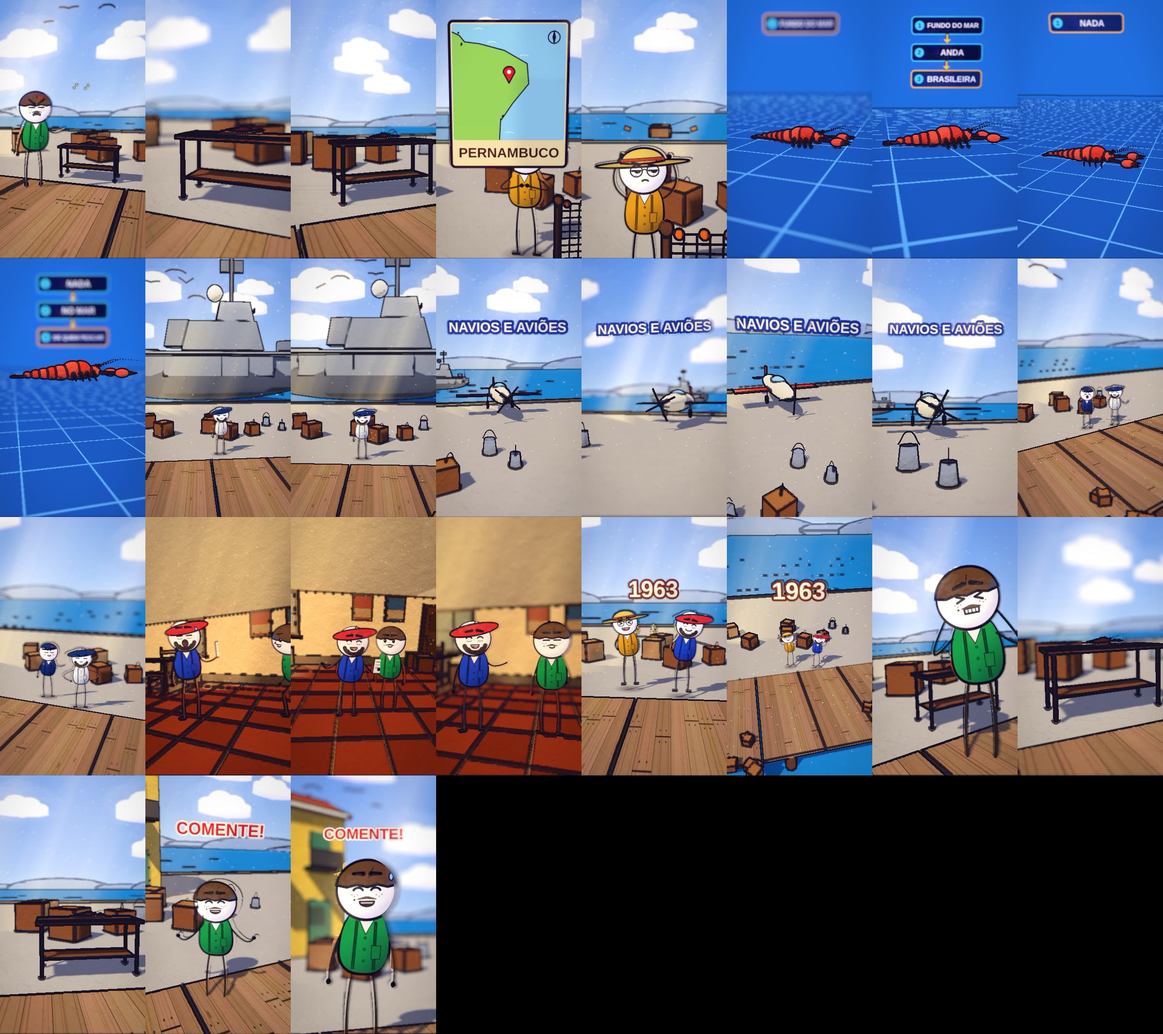
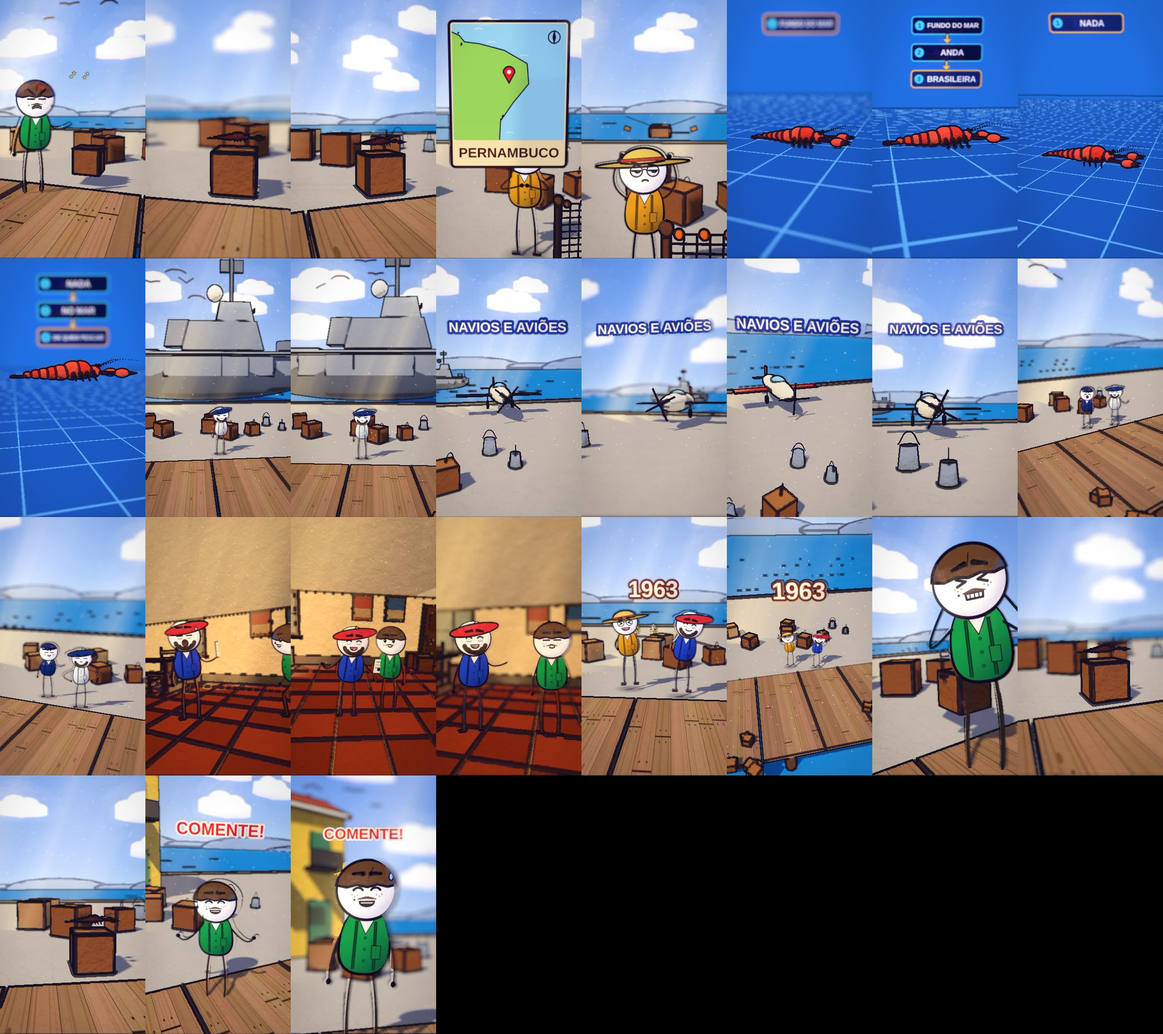
Lagosta: lagosta de desenho em tamanho legivel (limite 1.4 m, metade do pescador)
Claude-Session: https://claude.ai/code/session_01HE8Dy3UcXXZZMLa7uzjNJD

diff --git a/ferramenta-shorts/stories/lagosta1961/spec.js b/ferramenta-shorts/stories/lagosta1961/spec.js
@@ -15,7 +15,7 @@ const SPEC = {
   assets: ["boat", "buildings/shop", "crate", "kit/fishing_net", "kit/lobster", "kit/navio_destroier", "kit/room_colonial_stone", "mk/Bookcase_2", "mk/Chair_1", "mk/Chest_Wood", "mk/Table_Large", "ship", "vehicles/airplane"],
   kicks: [], flashes: [],
   shots: [
-    S('b0', A[0], Math.round(A[0] + (A[1] - 1 + 1 - (A[0])) * 0.36) - 1, X, "day", { h: 1.6, d0: 6.5, d1: 5.5, az0: -6, az1: 8, cx: 0.5, cz: -0.3, hero: { hero: 'any', frame: 'medium', minH: 0.07, main: 1 }, actors: [pp(X, "BRA", 0, 0.0, 1.3, "angry", { pose: 'argue' })], props: [{ asset: "crate", at: [X + 1.0, -0.4], s: 1.0, fixo: true }, { asset: "kit/lobster", at: [X + 1.0, -0.4], s: 0.37, fixo: true, y: DK + 0.95, drop: false }], fx: [{ k: 'stars', a: A[0] + 6, b: A[0] + 40, at: [X + 1.0, DK + 1.6, 0.1], s: 0.8 }, { k: 'birds', a: A[0], b: A[1] - 1, at: [X, DK + 4.5, -30], n: 4, dir: 1, off: 8 }] }), { ...S('b0_d', Math.round(A[0] + (A[1] - 1 + 1 - (A[0])) * 0.36), Math.round(A[0] + (A[1] - 1 + 1 - (A[0])) * 0.6) - 1, X, "day", { h: 1.6, d0: 6.5, d1: 5.5, az0: -6, az1: 8, cx: 0.5, cz: -0.3, hero: { hero: 'none', detalhe: true }, actors: [pp(X, "BRA", 0, 0.0, 1.3, "angry", { pose: 'stand' })], props: [{ asset: "crate", at: [X + 1.0, -0.4], s: 1.0, drop: false, fixo: true }, { asset: "kit/lobster", at: [X + 1.0, -0.4], s: 0.37, drop: false, fixo: true, y: DK + 0.95, drop: false }], fx: [{ k: 'stars', a: A[0] + 6, b: A[0] + 40, at: [X + 1.0, DK + 1.6, 0.1], s: 0.8 }, { k: 'birds', a: A[0], b: A[1] - 1, at: [X, DK + 4.5, -30], n: 4, dir: 1, off: 8 }] }), cam: [{ f: Math.round(A[0] + (A[1] - 1 + 1 - (A[0])) * 0.36), at: [X + 1.0, DK + 0.282, -0.4], d: 9.01, az: -14, el: 7, fov: 44 }, { f: Math.round(A[0] + (A[1] - 1 + 1 - (A[0])) * 0.6) - 1, at: [X + 1.0, DK + 0.282, -0.4], d: 8.0, az: -8, el: 6, fov: 44 }], nocut: true, vary: false, glide: true, glideN: 34 }, { ...S('b0_v', Math.round(A[0] + (A[1] - 1 + 1 - (A[0])) * 0.6), A[1] - 1, X, "day", { h: 1.6, d0: 6.5, d1: 5.5, az0: -6, az1: 8, cx: 0.5, cz: -0.3, hero: { hero: 'any', frame: 'medium', minH: 0.07, main: 1 }, actors: [pp(X, "BRA", 0, 0.0, 1.3, "angry", { pose: 'argue' })], props: [{ asset: "crate", at: [X + 1.0, -0.4], s: 1.0, drop: false, fixo: true }, { asset: "kit/lobster", at: [X + 1.0, -0.4], s: 0.37, drop: false, fixo: true, y: DK + 0.95, drop: false }], fx: [{ k: 'stars', a: A[0] + 6, b: A[0] + 40, at: [X + 1.0, DK + 1.6, 0.1], s: 0.8 }, { k: 'birds', a: A[0], b: A[1] - 1, at: [X, DK + 4.5, -30], n: 4, dir: 1, off: 8 }] }), glide: true, glideN: 34 },
+    S('b0', A[0], Math.round(A[0] + (A[1] - 1 + 1 - (A[0])) * 0.36) - 1, X, "day", { h: 1.6, d0: 6.5, d1: 5.5, az0: -6, az1: 8, cx: 0.5, cz: -0.3, hero: { hero: 'any', frame: 'medium', minH: 0.07, main: 1 }, actors: [pp(X, "BRA", 0, 0.0, 1.3, "angry", { pose: 'argue' })], props: [{ asset: "crate", at: [X + 1.0, -0.4], s: 1.0, fixo: true }, { asset: "kit/lobster", at: [X + 1.0, -0.4], s: 0.58, fixo: true, y: DK + 0.95, drop: false }], fx: [{ k: 'stars', a: A[0] + 6, b: A[0] + 40, at: [X + 1.0, DK + 1.6, 0.1], s: 0.8 }, { k: 'birds', a: A[0], b: A[1] - 1, at: [X, DK + 4.5, -30], n: 4, dir: 1, off: 8 }] }), { ...S('b0_d', Math.round(A[0] + (A[1] - 1 + 1 - (A[0])) * 0.36), Math.round(A[0] + (A[1] - 1 + 1 - (A[0])) * 0.6) - 1, X, "day", { h: 1.6, d0: 6.5, d1: 5.5, az0: -6, az1: 8, cx: 0.5, cz: -0.3, hero: { hero: 'none', detalhe: true }, actors: [pp(X, "BRA", 0, 0.0, 1.3, "angry", { pose: 'stand' })], props: [{ asset: "crate", at: [X + 1.0, -0.4], s: 1.0, drop: false, fixo: true }, { asset: "kit/lobster", at: [X + 1.0, -0.4], s: 0.58, drop: false, fixo: true, y: DK + 0.95, drop: false }], fx: [{ k: 'stars', a: A[0] + 6, b: A[0] + 40, at: [X + 1.0, DK + 1.6, 0.1], s: 0.8 }, { k: 'birds', a: A[0], b: A[1] - 1, at: [X, DK + 4.5, -30], n: 4, dir: 1, off: 8 }] }), cam: [{ f: Math.round(A[0] + (A[1] - 1 + 1 - (A[0])) * 0.36), at: [X + 1.0, DK + 0.282, -0.4], d: 9.01, az: -14, el: 7, fov: 44 }, { f: Math.round(A[0] + (A[1] - 1 + 1 - (A[0])) * 0.6) - 1, at: [X + 1.0, DK + 0.282, -0.4], d: 8.0, az: -8, el: 6, fov: 44 }], nocut: true, vary: false, glide: true, glideN: 34 }, { ...S('b0_v', Math.round(A[0] + (A[1] - 1 + 1 - (A[0])) * 0.6), A[1] - 1, X, "day", { h: 1.6, d0: 6.5, d1: 5.5, az0: -6, az1: 8, cx: 0.5, cz: -0.3, hero: { hero: 'any', frame: 'medium', minH: 0.07, main: 1 }, actors: [pp(X, "BRA", 0, 0.0, 1.3, "angry", { pose: 'argue' })], props: [{ asset: "crate", at: [X + 1.0, -0.4], s: 1.0, drop: false, fixo: true }, { asset: "kit/lobster", at: [X + 1.0, -0.4], s: 0.58, drop: false, fixo: true, y: DK + 0.95, drop: false }], fx: [{ k: 'stars', a: A[0] + 6, b: A[0] + 40, at: [X + 1.0, DK + 1.6, 0.1], s: 0.8 }, { k: 'birds', a: A[0], b: A[1] - 1, at: [X, DK + 4.5, -30], n: 4, dir: 1, off: 8 }] }), glide: true, glideN: 34 },
     { ...S('b1', A[1], A[2] - 1, X, "day", { h: 2.8, d0: 15.0, d1: 13.0, el: 5, fov: 46, cx: 0.0, cz: -5.6, hero: { hero: 'none', wide: true }, vary: false, nocut: true, trans: 'dissolve', actors: [_MA(pp(X, "PES", 0, 0.0, -0.4, "stern"), { gests: [[WS(24) - 8, WS(24) + 46, 'lift']] })], props: [{ asset: "boat", at: [X + 0.0, -27.0], s: 2.4, fixo: true }, { asset: "kit/fishing_net", at: [X + 1.8, 0.8], s: 1.2, drop: false }], fx: [{ k: 'map', a: WS(17, -2), b: Math.min(A[2] - 1, WS(17, -2) + 54), text: "PERNAMBUCO", geo: {"polys": [[7097, 522, 7096, 522, 7096, 521, -4214, 520, -4212, 518, -4210, 518, -4211, 520, -4211, 520, -4214, 522, 7097, 522], [-659, -42, -613, -29, -570, -64, -570, -85, -586, -135, -533, -118, -476, -147, -454, -169, -441, -146, -439, -117, -433, -62, -400, -44, -380, -54, -348, -64, -320, -75, -290, -84, -264, -72, -233, -76, -203, -100, -178, -140, -144, -62, -160, -8, -202, 46, -151, 49, -117, 79, -79, 35, -50, 20, -14, 29, 33, 50, 45, 65, 56, 78, 122, 86, 233, 115, 335, 173, 343, 263, 273, 348, 232, 408, 216, 430, 209, 546, 172, 650, 122, 722, 79, 727, 40, 737, -64, 790, -82, 807, -85, 856, -149, 978, -169, 996, -159, 961, -176, 980, -216, 1053, -235, 1031, -287, 990, -316, 983, -368, 955, -318, 902, -294, 882, -263, 866, -249, 821, -269, 794, -289, 758, -306, 728, -329, 701, -369, 699, -378, 677, -381, 648, -377, 607, -375, 552, -411, 514, -458, 447, -509, 417, -555, 395, -602, 372, -611, 342, -630, 307, -700, 339, -760, 345, -776, 299, -826, 311, -861, 271, -874, 245, -875, 229, -858, 188, -819, 141, -765, 133, -739, 36, -745, 14, -747, -25, -732, -26, -753, -37, -701, -60, -674, -70], [44, 90, 40, 93, 41, 89, 41, 87, 41, 85, 43, 83, 44, 83, 44, 85, 44, 86, 44, 90], [224, 412, 223, 413, 223, 411, 226, 408, 227, 405, 228, 407, 229, 408, 229, 409, 224, 412], [219, 424, 218, 426, 217, 426, 216, 425, 216, 423, 216, 422, 217, 422, 219, 422, 219, 424], [31, 38, 29, 40, 29, 41, 27, 40, 27, 39, 28, 39, 29, 37, 31, 37, 31, 38]], "hl": [1, 2, 3, 4, 5], "pin": [254.0, 260.0]} }, { k: "puff", a: A[1] + 70, b: A[1] + 96, at: [X + 0.9, DK + 0.12, 1.0], s: 0.75 }, { k: "splash", a: WS(24) + 3, b: WS(24) + 30, at: [X + 0.6, DK + 1.6, 1.7], s: 0.6 }] }), nocut: true },
     { ...S('b2', A[2], Math.round(A[2] + (A[3] - 1 + 1 - (A[2])) * 0.5) - 1, X_loc_estudio, "explica", { actors: [], props: [{ asset: "kit/lobster", at: [X_loc_estudio, -2.0], s: 1.47, y: (f) => DK, ry: 0.0, drop: false }], fx: [{ k: 'passos', a: (A[2]) + 8, b: A[3] - 1, itens: ["FUNDO DO MAR", "ANDA", "BRASILEIRA"], up: 0.58 }], hero: { hero: 'none', explica: true }, trans: 'dissolve' }), cam: [{ f: A[2], at: [X_loc_estudio + 0.0, DK + 0.615, -2.0], d: 14.2, az: 26, el: 10, fov: 44 }, { f: Math.round(A[2] + (A[3] - 1 + 1 - (A[2])) * 0.5) - 1, at: [X_loc_estudio + 0.0, DK + 0.615, -2.0], d: 12.78, az: 12, el: 8, fov: 44 }], nocut: true, vary: false, creep: 0 }, { ...S('b2_x', Math.round(A[2] + (A[3] - 1 + 1 - (A[2])) * 0.5), A[3] - 1, X_loc_estudio, "explica", { actors: [], props: [{ asset: "kit/lobster", at: [X_loc_estudio, -2.0], s: 1.47, y: (f) => DK, ry: 0.0, drop: false }], fx: [{ k: 'passos', a: (A[2]) + 8, b: A[3] - 1, itens: ["FUNDO DO MAR", "ANDA", "BRASILEIRA"], up: 0.58 }], hero: { hero: 'none', explica: true }, trans: 'cut' }), cam: [{ f: Math.round(A[2] + (A[3] - 1 + 1 - (A[2])) * 0.5), at: [X_loc_estudio + 0.0, DK + 0.615, -2.0], d: 12.5, az: -20, el: 6, fov: 44 }, { f: A[3] - 1, at: [X_loc_estudio + 0.0, DK + 0.615, -2.0], d: 11.36, az: -6, el: 5, fov: 44 }], nocut: true, vary: false, glide: true, glideN: 22, creep: 0 },
     { ...S('b3', A[3], Math.round(A[3] + (A[4] - 1 + 1 - (A[3])) * 0.5) - 1, X_loc_estudio, "explica", { actors: [], props: [{ asset: "kit/lobster", at: [X_loc_estudio, -2.0], s: 1.47, y: (f) => DK + 2.4 * Math.pow(Math.min(1, Math.max(0, (f - ((A[3]) + 14)) / 40)), 1.5) + (f > ((A[3]) + 14) + 40 ? 0.1 * Math.sin((f - ((A[3]) + 14)) / 9) : 0), ry: 0.0, drop: false }], fx: [{ k: 'passos', a: (A[3]) + 8, b: A[4] - 1, itens: ["NADA", "NO MAR", "DE QUEM PESCAR"], up: 0.58 }], hero: { hero: 'none', explica: true }, trans: 'dissolve' }), cam: [{ f: A[3], at: [X_loc_estudio + 0.0, DK + 2.115, -2.0], d: 14.2, az: 26, el: 10, fov: 44 }, { f: Math.round(A[3] + (A[4] - 1 + 1 - (A[3])) * 0.5) - 1, at: [X_loc_estudio + 0.0, DK + 2.115, -2.0], d: 12.78, az: 12, el: 8, fov: 44 }], nocut: true, vary: false, creep: 0 }, { ...S('b3_x', Math.round(A[3] + (A[4] - 1 + 1 - (A[3])) * 0.5), A[4] - 1, X_loc_estudio, "explica", { actors: [], props: [{ asset: "kit/lobster", at: [X_loc_estudio, -2.0], s: 1.47, y: (f) => DK + 2.4 * Math.pow(Math.min(1, Math.max(0, (f - ((A[3]) + 14)) / 40)), 1.5) + (f > ((A[3]) + 14) + 40 ? 0.1 * Math.sin((f - ((A[3]) + 14)) / 9) : 0), ry: 0.0, drop: false }], fx: [{ k: 'passos', a: (A[3]) + 8, b: A[4] - 1, itens: ["NADA", "NO MAR", "DE QUEM PESCAR"], up: 0.58 }], hero: { hero: 'none', explica: true }, trans: 'cut' }), cam: [{ f: Math.round(A[3] + (A[4] - 1 + 1 - (A[3])) * 0.5), at: [X_loc_estudio + 0.0, DK + 2.115, -2.0], d: 12.5, az: -20, el: 6, fov: 44 }, { f: A[4] - 1, at: [X_loc_estudio + 0.0, DK + 2.115, -2.0], d: 11.36, az: -6, el: 5, fov: 44 }], nocut: true, vary: false, glide: true, glideN: 22, creep: 0 },
@@ -24,8 +24,8 @@ const SPEC = {
     { ...S('b6', A[6], A[7] - 1, X, "day", { h: 2.6, d0: 25.0, d1: 19.0, el: 11, fov: 46, az0: -38, az1: 32, cx: 0.0, cz: -1.5, hero: { hero: 'none', wide: true }, vary: false, nocut: true, trans: 'dissolve', actors: [_MA(pp(X, "MAR", 0, -1.0, -0.4, "angry", { pose: 'argue' }), { gests: [[WS(94) - 8, WS(94) + 46, 'point']] }), pp(X, "MFR", 0, 1.0, 0.2, "stern", { pose: 'argue' })], fx: [{ k: 'birds', a: A[6], b: A[7] - 1, at: [X, DK + 4.5, -30], n: 4, dir: -1, off: 8 }, { k: "puff", a: A[6] + 40, b: A[6] + 66, at: [X + 0.9, DK + 0.12, 1.0], s: 0.75 }] }), nocut: true },
     S('b7', A[7], A[8] - 1, X_hall, "study", { h: 2.3, d0: 7.3, d1: 6.86, fov: 57.0, az0: 10, az1: 4, vary: false, hero: { hero: 'any', frame: 'medium', minH: 0.07, main: 2 }, trans: 'dissolve', actors: [_MA(pp(X_hall, "FRA", 0, -1.0, 1.3, "relief", { over: { hold: "paper" }, pose: 'talk', inter: { k: 'step', a: Math.round(A[7] + (A[8] - 1 - (A[7])) * 0.12), b: Math.round(A[7] + (A[8] - 1 - (A[7])) * 0.82), dir: 1, n: 2, ph: 0 } }), { gests: [[WS(123) - 8, WS(123) + 46, 'point']] }), { outfit: "BRA", v: 0, at: [X_hall + 3.4, -0.6], move: [[X_hall + 1.0, 1.0], A[7], Math.round(A[7] + Math.min(48, (A[8] - 1 - (A[7])) * 0.3)), 'lin'], arrive: true, walk: "stroll", look: -0.4, expr: "smile" }], props: [{ asset: "kit/room_colonial_stone", at: [X_hall, 0], s: 1, drop: false }, { asset: "mk/Bookcase_2", at: [X_hall + 7.4, -3.4], s: 2.4, drop: false }, { asset: "mk/Table_Large", at: [X_hall + -6.6, -1.6], s: 2.2, drop: false }, { asset: "mk/Chair_1", at: [X_hall + -4.4, -1.2], s: 2.2, drop: false }, { asset: "mk/Chest_Wood", at: [X_hall + 6.9, 0.6], s: 2.2, drop: false }] }),
     { ...{ ...S('b8', A[8], A[9] - 1, X, "day", { h: 2.4, d0: 11.0, d1: 27.0, el: 10, fov: 46, cx: 0.0, cz: -1.5, hero: { hero: 'none', wide: true }, vary: false, nocut: true, trans: 'dissolve', actors: [_MA(_MA(pp(X, "PES", 0, -1.0, -0.4, "laugh", { pose: 'cheer' }), { gests: [[WS(132) - 8, WS(132) + 46, 'point']] }), { gests: [[WS(132) - 6, WS(137) - 6, 'reach']] }), _MA(pp(X, "FRA", 0, 1.0, 0.2, "relief", { pose: 'cheer' }), { gests: [[WS(132) - 6, WS(137) - 6, 'reach']] })], props: [{ asset: "kit/navio_destroier", at: [X + -42, -34], s: 8.27, drop: false }, { asset: "boat", at: [X + 30, -22], s: 1.0 }], fx: [{ k: 'birds', a: A[8], b: A[9] - 1, at: [X, DK + 7.5, -30], n: 6, dir: 1, off: 8 }, txt(X, WS(128, -2), A[9] - 1, "1963", '#fff6e0', '#7a3a1c', 4.6, { s: 1.5, up: 0.42 }), { k: "stars", a: A[8] + 20, b: A[8] + 46, at: [X, DK + 0.5, 1.2], s: 1.1 }, { k: "stars", a: WS(132) + 3, b: WS(132) + 30, at: [X + -1.0, DK + 2.6, 1.7], s: 0.6 }, { k: 'stars', a: WS(132) + 6, b: WS(132) + 40, at: [X, DK + 2.0, 1.6], s: 0.9 }] }), nocut: true }, cam: [{ f: A[8], at: [X + 0.0, DK + 2.0, 0.5], d: 9, az: 10, el: 5, fov: 46 }, { f: A[9] - 1, at: [X + 0.0, DK + 1.0, -2.0], d: 30, az: -14, el: 30, fov: 48 }], nocut: true },
-    S('b9', A[9], Math.round(A[9] + (A[10] - 1 + 1 - (A[9])) * 0.36) - 1, X, "day", { h: 1.6, d0: 6.5, d1: 5.5, az0: -32, az1: -18, cx: 0.5, cz: -0.3, hero: { hero: 'any', frame: 'medium', minH: 0.07, main: 1 }, trans: 'dissolve', actors: [pp(X, "BRA", 0, 0.0, 1.3, "nervous", { pose: 'react' })], props: [{ asset: "crate", at: [X + 1.0, -0.4], s: 1.0, fixo: true }, { asset: "kit/lobster", at: [X + 1.0, -0.4], s: 0.37, fixo: true, y: DK + 0.95, drop: false }], fx: [{ k: 'stars', a: A[9] + 6, b: A[9] + 40, at: [X + 1.0, DK + 1.6, 0.1], s: 0.8 }] }), { ...S('b9_d', Math.round(A[9] + (A[10] - 1 + 1 - (A[9])) * 0.36), Math.round(A[9] + (A[10] - 1 + 1 - (A[9])) * 0.6) - 1, X, "day", { h: 1.6, d0: 6.5, d1: 5.5, az0: -32, az1: -18, cx: 0.5, cz: -0.3, hero: { hero: 'none', detalhe: true }, trans: 'cut', actors: [pp(X, "BRA", 0, 0.0, 1.3, "nervous", { pose: 'react' })], props: [{ asset: "crate", at: [X + 1.0, -0.4], s: 1.0, drop: false, fixo: true }, { asset: "kit/lobster", at: [X + 1.0, -0.4], s: 0.37, drop: false, fixo: true, y: DK + 0.95, drop: false }], fx: [{ k: 'stars', a: A[9] + 6, b: A[9] + 40, at: [X + 1.0, DK + 1.6, 0.1], s: 0.8 }] }), cam: [{ f: Math.round(A[9] + (A[10] - 1 + 1 - (A[9])) * 0.36), at: [X + 1.0, DK + 0.282, -0.4], d: 9.01, az: -14, el: 7, fov: 44 }, { f: Math.round(A[9] + (A[10] - 1 + 1 - (A[9])) * 0.6) - 1, at: [X + 1.0, DK + 0.282, -0.4], d: 8.0, az: -8, el: 6, fov: 44 }], nocut: true, vary: false, glide: true, glideN: 34 }, { ...S('b9_v', Math.round(A[9] + (A[10] - 1 + 1 - (A[9])) * 0.6), A[10] - 1, X, "day", { h: 1.6, d0: 6.5, d1: 5.5, az0: -32, az1: -18, cx: 0.5, cz: -0.3, hero: { hero: 'any', frame: 'medium', minH: 0.07, main: 1 }, trans: 'cut', actors: [pp(X, "BRA", 0, 0.0, 1.3, "nervous", { pose: 'react' })], props: [{ asset: "crate", at: [X + 1.0, -0.4], s: 1.0, drop: false, fixo: true }, { asset: "kit/lobster", at: [X + 1.0, -0.4], s: 0.37, drop: false, fixo: true, y: DK + 0.95, drop: false }], fx: [{ k: 'stars', a: A[9] + 6, b: A[9] + 40, at: [X + 1.0, DK + 1.6, 0.1], s: 0.8 }] }), glide: true, glideN: 34 },
-    S('b10', A[10], A[11] - 1, X, "day", { h: 2.4, d0: 6.4, d1: 5.6, az0: -6, az1: 8, hero: { hero: 'any', frame: 'medium', minH: 0.07, main: 1 }, trans: 'dissolve', actors: [pp(X, "BRA", 0, 0.0, 1.3, "grin", { pose: 'talk' })], props: [{ asset: "buildings/shop", at: [X + -4.8, -11.0], s: 1.05, ry: 0.35, drop: false }, { asset: "kit/lobster", at: [X + 0.0, -11.0], s: 0.37, drop: false }], fx: [{ k: 'stars', a: A[10] + 6, b: A[10] + 40, at: [X + 0.0, DK + 1.6, -10.5], s: 0.8 }, { k: 'birds', a: A[10], b: A[11] - 1, at: [X, DK + 6.0, -30], n: 5, dir: -1, off: 8 }, txt(X, WS(153, -2), A[11] - 1, "COMENTE!", '#d8282f', '#fff6e0', 4.6, { s: 1.5, up: 0.55 })] })
+    S('b9', A[9], Math.round(A[9] + (A[10] - 1 + 1 - (A[9])) * 0.36) - 1, X, "day", { h: 1.6, d0: 6.5, d1: 5.5, az0: -32, az1: -18, cx: 0.5, cz: -0.3, hero: { hero: 'any', frame: 'medium', minH: 0.07, main: 1 }, trans: 'dissolve', actors: [pp(X, "BRA", 0, 0.0, 1.3, "nervous", { pose: 'react' })], props: [{ asset: "crate", at: [X + 1.0, -0.4], s: 1.0, fixo: true }, { asset: "kit/lobster", at: [X + 1.0, -0.4], s: 0.58, fixo: true, y: DK + 0.95, drop: false }], fx: [{ k: 'stars', a: A[9] + 6, b: A[9] + 40, at: [X + 1.0, DK + 1.6, 0.1], s: 0.8 }] }), { ...S('b9_d', Math.round(A[9] + (A[10] - 1 + 1 - (A[9])) * 0.36), Math.round(A[9] + (A[10] - 1 + 1 - (A[9])) * 0.6) - 1, X, "day", { h: 1.6, d0: 6.5, d1: 5.5, az0: -32, az1: -18, cx: 0.5, cz: -0.3, hero: { hero: 'none', detalhe: true }, trans: 'cut', actors: [pp(X, "BRA", 0, 0.0, 1.3, "nervous", { pose: 'react' })], props: [{ asset: "crate", at: [X + 1.0, -0.4], s: 1.0, drop: false, fixo: true }, { asset: "kit/lobster", at: [X + 1.0, -0.4], s: 0.58, drop: false, fixo: true, y: DK + 0.95, drop: false }], fx: [{ k: 'stars', a: A[9] + 6, b: A[9] + 40, at: [X + 1.0, DK + 1.6, 0.1], s: 0.8 }] }), cam: [{ f: Math.round(A[9] + (A[10] - 1 + 1 - (A[9])) * 0.36), at: [X + 1.0, DK + 0.282, -0.4], d: 9.01, az: -14, el: 7, fov: 44 }, { f: Math.round(A[9] + (A[10] - 1 + 1 - (A[9])) * 0.6) - 1, at: [X + 1.0, DK + 0.282, -0.4], d: 8.0, az: -8, el: 6, fov: 44 }], nocut: true, vary: false, glide: true, glideN: 34 }, { ...S('b9_v', Math.round(A[9] + (A[10] - 1 + 1 - (A[9])) * 0.6), A[10] - 1, X, "day", { h: 1.6, d0: 6.5, d1: 5.5, az0: -32, az1: -18, cx: 0.5, cz: -0.3, hero: { hero: 'any', frame: 'medium', minH: 0.07, main: 1 }, trans: 'cut', actors: [pp(X, "BRA", 0, 0.0, 1.3, "nervous", { pose: 'react' })], props: [{ asset: "crate", at: [X + 1.0, -0.4], s: 1.0, drop: false, fixo: true }, { asset: "kit/lobster", at: [X + 1.0, -0.4], s: 0.58, drop: false, fixo: true, y: DK + 0.95, drop: false }], fx: [{ k: 'stars', a: A[9] + 6, b: A[9] + 40, at: [X + 1.0, DK + 1.6, 0.1], s: 0.8 }] }), glide: true, glideN: 34 },
+    S('b10', A[10], A[11] - 1, X, "day", { h: 2.4, d0: 6.4, d1: 5.6, az0: -6, az1: 8, hero: { hero: 'any', frame: 'medium', minH: 0.07, main: 1 }, trans: 'dissolve', actors: [pp(X, "BRA", 0, 0.0, 1.3, "grin", { pose: 'talk' })], props: [{ asset: "buildings/shop", at: [X + -4.8, -11.0], s: 1.05, ry: 0.35, drop: false }, { asset: "kit/lobster", at: [X + 0.0, -11.0], s: 0.58, drop: false }], fx: [{ k: 'stars', a: A[10] + 6, b: A[10] + 40, at: [X + 0.0, DK + 1.6, -10.5], s: 0.8 }, { k: 'birds', a: A[10], b: A[11] - 1, at: [X, DK + 6.0, -30], n: 5, dir: -1, off: 8 }, txt(X, WS(153, -2), A[11] - 1, "COMENTE!", '#d8282f', '#fff6e0', 4.6, { s: 1.5, up: 0.55 })] })
   ],
 };
 

diff --git a/ferramenta-shorts/web/story.js b/ferramenta-shorts/web/story.js
@@ -53,7 +53,7 @@ const SPEC = {
 };
 
 // FOLHA3 96d16814f7d3 32 acoes=32 faltando=0
-SPEC.fit = {"b6":1.12,"b6_1":1.404};
+SPEC.fit = {"b6":1.12,"b6_1":1.254,"b9":1.12,"b9~1":1.12};
 // ===== STORY RUNTIME (generic): turns a declarative SPEC (stories/<id>.spec.js, concatenated before this file) into the story.js interface the engine expects =====
 import { camFromKeys, clamp, lerp, ramp, q, blinkAt, idle, M } from './motion.js';
 export const FPS = 30, TOTAL = SPEC.total, DECK = 6;

diff --git a/ferramenta-shorts/mkvideo.py b/ferramenta-shorts/mkvideo.py
@@ -105,7 +105,7 @@ _GLEN = {}
 # ===== v13 TAMANHO REAL (24/11, Gibson: "carro tem tamanho de carro, tanque de tanque, balao de gente e' gigante, balao de festa e' pequeno") =====
 # metros reais da MAIOR medida (L = comprimento, H = altura). O boneco tem ~3 unidades de altura => 1 metro real = _KM unidades no cenario.
 _KM = 1.35
-_TAM_REAL = ((r'balao_festa|party_balloon|bexiga', 0.4, 'H', 'max'), (r'finch|passarinho|tentilh', 0.6, 'H', 'max'), (r'(^|/)apple$', 0.3, 'H', 'max'), (r'lobster|lagosta', 0.9, 'L', 'max'), (r'cybertruck', 5.7, 'L', 'min'), (r'roadster|carro_redondo|carro_50|vehicles/car$|taxi|police', 4.5, 'L', 'min'), (r'carro_antigo', 3.9, 'L', 'min'), (r'jeep|jipe', 3.7, 'L', 'min'),
+_TAM_REAL = ((r'balao_festa|party_balloon|bexiga', 0.4, 'H', 'max'), (r'finch|passarinho|tentilh', 0.6, 'H', 'max'), (r'(^|/)apple$', 0.3, 'H', 'max'), (r'lobster|lagosta', 1.4, 'L', 'max'), (r'cybertruck', 5.7, 'L', 'min'), (r'roadster|carro_redondo|carro_50|vehicles/car$|taxi|police', 4.5, 'L', 'min'), (r'carro_antigo', 3.9, 'L', 'min'), (r'jeep|jipe', 3.7, 'L', 'min'),
              (r'truck|caminh', 7.5, 'L', 'min'), (r'onibus|\bbus', 11.0, 'L', 'min'), (r'tank|tanque(?!_ar)|blindado', 7.0, 'L', 'min'), (r'motorcycle|moto\b', 2.2, 'L', 'min'), (r'bicycle|bicicleta', 1.8, 'L', 'min'),
              (r'wagon|carroca|charrete|diligencia', 3.6, 'L', 'min'), (r'helicopter|helicoptero', 12.0, 'L', 'min'), (r'b2_|aviao|plane|biplano', 12.0, 'L', 'min'), (r'balloon|balao', 14.0, 'H', 'min'),
              (r'canhao_moderno', 4.5, 'L', 'min'), (r'^cannon$|canhao', 2.8, 'L', 'min'), (r'locomotiva|\btrem\b|train', 14.0, 'L', 'min'), (r'trator|tractor', 4.0, 'L', 'min'), (r'barco|boat|canoa', 5.0, 'L', 'min'), (r'piano', 1.6, 'L', 'min'),

diff --git a/ferramenta-shorts/stories/lagosta1961/autocorrecoes.md b/ferramenta-shorts/stories/lagosta1961/autocorrecoes.md
@@ -128,3 +128,22 @@
 ## 25/11 14:40 autocorrecao de visibilidade
 - b1: ja corrigida 3 vezes, objeto citado "boat" nao aparece na tela (escondido, fora do quadro ou pequeno demais) -> fica para o olho
 - b1: ja corrigida 3 vezes, objeto "boat" saiu com 9% da altura da tela, a ficha de cena planejou 30% -> fica para o olho
+
+## 25/11 15:03 autocorrecao de visibilidade
+- b1: objeto citado "boat" nao aparece na tela (escondido, fora do quadro ou pequeno demais) -> camera em plano aberto mirando o objeto (cx 0.0, cz -5.6), sem multidao na frente
+- b5: objeto citado "vehicles/airplane" nao aparece na tela (escondido, fora do quadro ou pequeno demais) -> camera em plano aberto mirando o objeto (cx 7.0, cz -11.2), sem multidao na frente
+- b0: quadro_manual (o roteiro fixou o quadro), objeto "kit/lobster" saiu com 5% da altura da tela, a ficha de cena planejou 32% -> fica para o olho
+- b1: objeto "boat" saiu com 9% da altura da tela, a ficha de cena planejou 30% -> camera em plano aberto mirando o objeto (cx 7.0, cz -11.2), sem multidao na frente
+- b9: quadro_manual (o roteiro fixou o quadro), objeto "kit/lobster" saiu com 5% da altura da tela, a ficha de cena planejou 32% -> fica para o olho
+
+## 25/11 15:03 autocorrecao de visibilidade
+- b1: objeto citado "boat" nao aparece na tela (escondido, fora do quadro ou pequeno demais) -> camera mais perto do objeto, 1 personagem de lado
+- b0: quadro_manual (o roteiro fixou o quadro), objeto "kit/lobster" saiu com 5% da altura da tela, a ficha de cena planejou 32% -> fica para o olho
+- b1: ja corrigida 3 vezes, objeto "boat" saiu com 9% da altura da tela, a ficha de cena planejou 30% -> fica para o olho
+- b9: quadro_manual (o roteiro fixou o quadro), objeto "kit/lobster" saiu com 5% da altura da tela, a ficha de cena planejou 32% -> fica para o olho
+
+## 25/11 15:04 autocorrecao de visibilidade
+- b1: ja corrigida 3 vezes, objeto citado "boat" nao aparece na tela (escondido, fora do quadro ou pequeno demais) -> fica para o olho
+- b0: quadro_manual (o roteiro fixou o quadro), objeto "kit/lobster" saiu com 5% da altura da tela, a ficha de cena planejou 32% -> fica para o olho
+- b1: ja corrigida 3 vezes, objeto "boat" saiu com 9% da altura da tela, a ficha de cena planejou 30% -> fica para o olho
+- b9: quadro_manual (o roteiro fixou o quadro), objeto "kit/lobster" saiu com 5% da altura da tela, a ficha de cena planejou 32% -> fica para o olho

diff --git a/ferramenta-shorts/stories/lagosta1961/folha2_producao.md b/ferramenta-shorts/stories/lagosta1961/folha2_producao.md
@@ -17,7 +17,7 @@ Coordenadas de cada cena para modelagem, animacao e camera, com os RISCOS que o 
 - LOCAL: cais de madeira na beira do mar (agua e horizonte ao fundo); hora: day
 - CAMERA: plano medio, 2 personagens de corpo inteiro; plano medio enquadrando personagens e lobster juntos (camera a 8.0 m)
 - PERSONAGENS: BRA no centro, expressao angry; sem multidao; acao: discutir
-- OBJETO kit/lobster: MEIO, direita (objeto principal da cena); tamanho na tela: 32% da altura da tela; estado: PARADO; 0.2 m: ao lado do personagem, mesmo plano, tamanho de uma pessoa
+- OBJETO kit/lobster: MEIO, direita (objeto principal da cena); tamanho na tela: 32% da altura da tela; estado: PARADO; 0.3 m: ao lado do personagem, mesmo plano, tamanho de uma pessoa
 - TAKES: 2 takes (troca de angulo a cada ~1.4 s, sem corte seco):
   - take 1 (0.2-1.6 s): gira 14 graus para a esquerda, camera mais alta, olhando um pouco de cima, um pouco mais longe
   - take 2 (1.6-3.0 s): gira 8 graus para a direita, camera mais baixa, olhando um pouco de baixo, um pouco mais perto
@@ -216,7 +216,7 @@ Coordenadas de cada cena para modelagem, animacao e camera, com os RISCOS que o 
 - LOCAL: cais de madeira na beira do mar (agua e horizonte ao fundo); hora: day
 - CAMERA: plano medio, 2 personagens de corpo inteiro; plano medio enquadrando personagens e lobster juntos (camera a 8.0 m)
 - PERSONAGENS: BRA no centro, expressao nervous; sem multidao; acao: fala/gesto
-- OBJETO kit/lobster: MEIO, direita (objeto principal da cena); tamanho na tela: 32% da altura da tela; estado: PARADO; 0.2 m: ao lado do personagem, mesmo plano, tamanho de uma pessoa
+- OBJETO kit/lobster: MEIO, direita (objeto principal da cena); tamanho na tela: 32% da altura da tela; estado: PARADO; 0.3 m: ao lado do personagem, mesmo plano, tamanho de uma pessoa
 - TAKES: 2 takes (troca de angulo a cada ~1.6 s, sem corte seco):
   - take 1 (50.1-51.7 s): mesmo angulo
   - take 2 (51.7-53.3 s): gira 16 graus para a direita, camera mais baixa, olhando um pouco de baixo, um pouco mais perto

diff --git a/ferramenta-shorts/stories/lagosta1961/folha2_enquadramento.md b/ferramenta-shorts/stories/lagosta1961/folha2_enquadramento.md
@@ -6,7 +6,7 @@ Cada cena: LOCAL, CAMERA, PERSONAGENS, OBJETOS (lugar, tamanho real e na tela, e
 - LOCAL: cais de madeira na beira do mar (agua e horizonte ao fundo); hora: day
 - CAMERA: plano medio, 2 personagens de corpo inteiro; plano medio enquadrando personagens e lobster juntos (camera a 8.0 m)
 - PERSONAGENS: BRA no centro, expressao angry; sem multidao; acao: discutir
-- OBJETO kit/lobster: MEIO, direita (objeto principal da cena); tamanho na tela: 32% da altura da tela; estado: PARADO; 0.2 m: ao lado do personagem, mesmo plano, tamanho de uma pessoa
+- OBJETO kit/lobster: MEIO, direita (objeto principal da cena); tamanho na tela: 32% da altura da tela; estado: PARADO; 0.3 m: ao lado do personagem, mesmo plano, tamanho de uma pessoa
 
 ## b1: "Era mil novecentos e sessenta e um, e barcos franceses pescavam lagostas na costa de Pernambuco."
 - LOCAL: cais de madeira na beira do mar (agua e horizonte ao fundo); hora: day
@@ -69,5 +69,5 @@ Cada cena: LOCAL, CAMERA, PERSONAGENS, OBJETOS (lugar, tamanho real e na tela, e
 - LOCAL: cais de madeira na beira do mar (agua e horizonte ao fundo); hora: day
 - CAMERA: plano medio, 2 personagens de corpo inteiro; plano medio enquadrando personagens e lobster juntos (camera a 8.0 m)
 - PERSONAGENS: BRA no centro, expressao nervous; sem multidao; acao: fala/gesto
-- OBJETO kit/lobster: MEIO, direita (objeto principal da cena); tamanho na tela: 32% da altura da tela; estado: PARADO; 0.2 m: ao lado do personagem, mesmo plano, tamanho de uma pessoa
+- OBJETO kit/lobster: MEIO, direita (objeto principal da cena); tamanho na tela: 32% da altura da tela; estado: PARADO; 0.3 m: ao lado do personagem, mesmo plano, tamanho de uma pessoa
 

diff --git a/ferramenta-shorts/stories/lagosta1961/folha4_pesquisa.md b/ferramenta-shorts/stories/lagosta1961/folha4_pesquisa.md
@@ -8,7 +8,7 @@ Raio-X do roteiro: o que este video precisa ter de referencia ANTES de modelar, 
 - HEROIS (personagens): BRA, PES, MFR, MAR
 - Cenarios: harbor, interior pedra, loc_estudio
 - Proibido pela epoca: barril, canhao antigo, caravela, carro antigo, carroca, castical, escudo, fragata a vela, galera a remo, lampiao, navio a vapor, navio a vapor de guerra, navio a vela, tambor de guerra
-- Tamanho real aplicado: kit/lobster: 0.9 m reais -> escala 0.37 (estava 1.0: grande demais); kit/navio_destroier: 30.0 m reais -> escala 8.27 (estava 0.8: pequeno demais); kit/navio_destroier: 30.0 m reais -> escala 8.27 (estava 0.7: pequeno demais)
+- Tamanho real aplicado: kit/lobster: 1.4 m reais -> escala 0.58 (estava 1.0: grande demais); kit/navio_destroier: 30.0 m reais -> escala 8.27 (estava 0.8: pequeno demais); kit/navio_destroier: 30.0 m reais -> escala 8.27 (estava 0.7: pequeno demais)
 
 ## Itens pesquisados
 

diff --git a/ferramenta-shorts/stories/lagosta1961/lista_revisao.md b/ferramenta-shorts/stories/lagosta1961/lista_revisao.md
@@ -4,7 +4,9 @@ Regra: olhar o storyboard/frase_a_frase INTEIRO e completar esta lista toda ANTE
 
 ## Achados automaticos (ferramenta)
 1. b1: objeto citado "boat" nao aparece na tela (escondido, fora do quadro ou pequeno demais)
-2. b1: objeto "boat" saiu com 9% da altura da tela, a ficha de cena planejou 30%
+2. b0: objeto "kit/lobster" saiu com 5% da altura da tela, a ficha de cena planejou 32%
+3. b1: objeto "boat" saiu com 9% da altura da tela, a ficha de cena planejou 30%
+4. b9: objeto "kit/lobster" saiu com 5% da altura da tela, a ficha de cena planejou 32%
 
 ## Achados do olho (uma linha por frase: OK ou DEFEITO + o que fazer)
 - f0 "A França e o Brasil quase entraram em guerra por causa de um": 

diff --git a/ferramenta-shorts/stories/lagosta1961/cronograma.md b/ferramenta-shorts/stories/lagosta1961/cronograma.md
@@ -1,6 +1,6 @@
 # CRONOGRAMA - Guerras Inusitadas EP 11 - A Guerra da Lagosta
 
-Gerado em 25/11 14:41 | 11 cenas | metricas: acoes_encenadas 100%, acoes_chave_com_efeito 100%, explicacoes_cobertas 100%, cenario_e_epoca_ok 100%
+Gerado em 25/11 15:11 | 11 cenas | metricas: acoes_encenadas 100%, acoes_chave_com_efeito 100%, explicacoes_cobertas 100%, cenario_e_epoca_ok 100%
 
 ## 1. Plano de cenas (o que cada frase vai mostrar)
 
